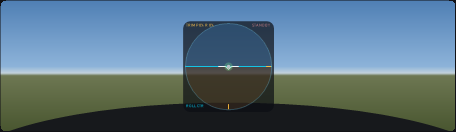
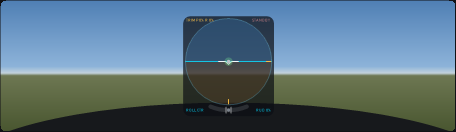
adcionado indicador de rudder no hud classical

diff --git a/MouseYokeEnhanced/MouseYokeVJoy/HudRenderer.cs b/MouseYokeEnhanced/MouseYokeVJoy/HudRenderer.cs
@@ -59,7 +59,7 @@ internal static class HudRenderer
 		{
 			HudStyle.Minimal => new Size(160, 160),
 			HudStyle.Strip => new Size(360, 58),
-			HudStyle.Classic => new Size(260, 260),
+			HudStyle.Classic => new Size(260, 284),
 			_ => new Size(240, numbers ? 280 : 260),
 		};
 	}
@@ -428,15 +428,17 @@ internal static class HudRenderer
 		Text(g, "R TRIM " + Percent(s.RollTrim), 12f, Theme.Amber, 266f, 43f);
 	}
 
-	// 260 x 260: the original HUD, now with roll trim and ROLL L/R instead of BANK (it shows the stick, not attitude).
+	// 260 x 284: the original HUD, now with roll trim and ROLL L/R instead of BANK (it shows the stick, not attitude),
+	// and a rudder ball under the ring, like the inclinometer of a turn coordinator.
 	private static void DrawClassic(Graphics g, HudState s)
 	{
 		float pad = 12f;
 		float pw = 236f;
+		float ph = 260f;
 		float cx = 130f;
 		float cy = 130f;
 		float r = 112f;
-		FillRounded(g, Color.FromArgb(200, 12, 14, 20), pad, pad, pw, pw, 18f);
+		FillRounded(g, Color.FromArgb(200, 12, 14, 20), pad, pad, pw, ph, 18f);
 		using (GraphicsPath clip = new GraphicsPath())
 		{
 			clip.AddEllipse(cx - r, cy - r, r * 2f, r * 2f);
@@ -484,9 +486,34 @@ internal static class HudRenderer
 		float dy = cy + (float)s.Pitch * r;
 		Dot(g, Color.FromArgb(70, 120, 255, 140), dx, dy, 11f);
 		Dot(g, s.Active ? Theme.Green : Color.FromArgb(190, 195, 200), dx, dy, 5f);
+		float ra = r + 14f;
+		float span = 22f;
+		RectangleF arc = new RectangleF(cx - ra, cy - ra, ra * 2f, ra * 2f);
+		using (Pen tube = new Pen(Color.FromArgb(34, 255, 255, 255), 11f)
+		{
+			StartCap = LineCap.Round,
+			EndCap = LineCap.Round
+		})
+		{
+			g.DrawArc(tube, arc, 90f - span, span * 2f);
+		}
+		using (Pen wire = new Pen(Color.FromArgb(150, 255, 255, 255), 1.2f))
+		{
+			g.DrawLine(wire, cx - 6.5f, cy + ra - 8f, cx - 6.5f, cy + ra + 8f);
+			g.DrawLine(wire, cx + 6.5f, cy + ra - 8f, cx + 6.5f, cy + ra + 8f);
+		}
+		double ba = (90.0 - Math.Clamp(s.Rudder, -1.0, 1.0) * (double)span) * Math.PI / 180.0;
+		float bx = cx + ra * (float)Math.Cos(ba);
+		float by = cy + ra * (float)Math.Sin(ba);
+		if (s.RudderOn && s.Active)
+		{
+			Dot(g, A(Theme.Cyan, 0.25), bx, by, 8.5f);
+		}
+		Dot(g, (!s.RudderOn) ? Color.FromArgb(90, 160, 168, 178) : (s.Active ? A(Theme.Cyan, 0.95) : Color.FromArgb(200, 160, 168, 178)), bx, by, 4.5f);
 		double off = s.Roll - s.RollTrim;
 		string roll = ((Math.Abs(off) < 0.03) ? "ROLL CTR" : ((off > 0.0) ? "ROLL R" : "ROLL L"));
-		Text(g, roll, 11f, A(Theme.Cyan, 0.9), pad + 8f, pad + pw - 10f);
+		Text(g, roll, 11f, A(Theme.Cyan, 0.9), pad + 8f, pad + ph - 10f);
+		Text(g, s.RudderOn ? ("RUD " + Percent(s.Rudder)) : "RUD OFF", 11f, s.RudderOn ? A(Theme.Cyan, 0.9) : Color.FromArgb(204, 220, 225, 230), pad + pw - 8f, pad + ph - 10f, StringAlignment.Far);
 		Text(g, s.Active ? "ACTIVE" : "STANDBY", 11f, s.Active ? A(Theme.Green, 0.9) : Color.FromArgb(230, 200, 120, 120), pad + pw - 8f, pad + 16f, StringAlignment.Far);
 		Text(g, "TRIM P " + Percent(s.PitchTrim) + " R " + Percent(s.RollTrim), 11f, A(Theme.Amber, 0.9), pad + 8f, pad + 16f);
 	}

diff --git a/MouseYokeEnhanced/MouseYoke_Manual.md b/MouseYokeEnhanced/MouseYoke_Manual.md
@@ -184,7 +184,8 @@ whether you're flying (**ACTIVE**) or not (**STANDBY**). Everything is on the **
 
 - **Style** — **Sidestick** (the default: corner brackets for full travel, a green cross for the
   stick), **Minimal** (just the brackets and the cross), **Strip** (a thin bar for the edge of
-  the screen) or **Classic** (the original round display). The preview at the top shows it.
+  the screen) or **Classic** (the original round display, with a rudder ball underneath, like a
+  turn coordinator's). The preview at the top shows it.
 - **Size** (50–250%) and **Opacity**.
 - **Show HUD** — turn it off if you don't want a HUD at all (also on the Fly tab).
 - **Show numbers** — the trim and rudder values under the Sidestick HUD.
